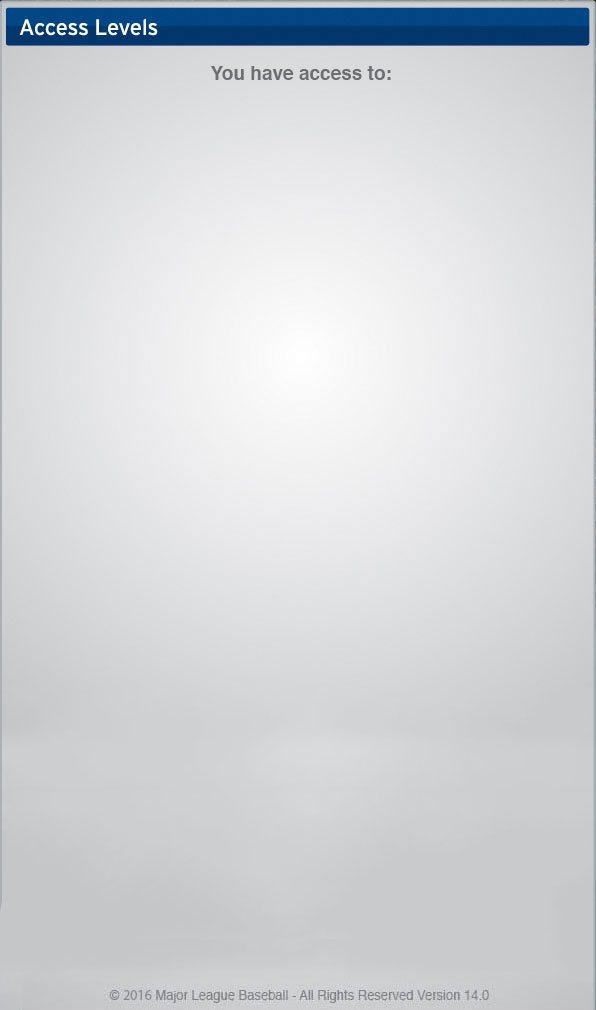
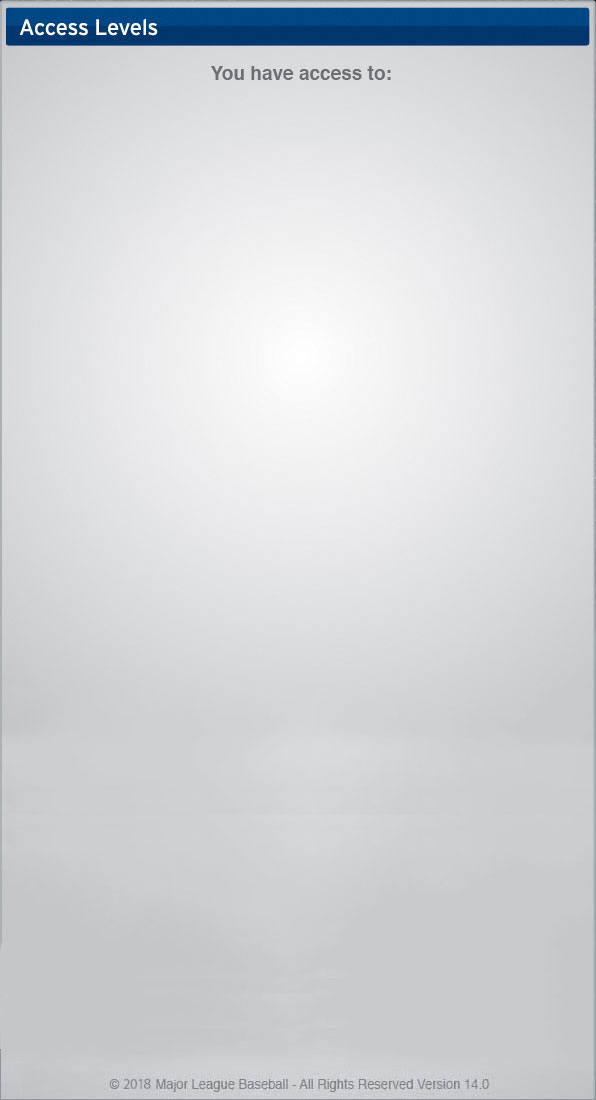
Sponsors

diff --git a/css/mlb.css b/css/mlb.css
@@ -125,7 +125,7 @@ th, td {
 
 #access_panel {
     width:596px;
-    height:1010px;
+    height:1100px;
     margin: 0 auto;
     margin-top:120px;
     margin-bottom:10px;
